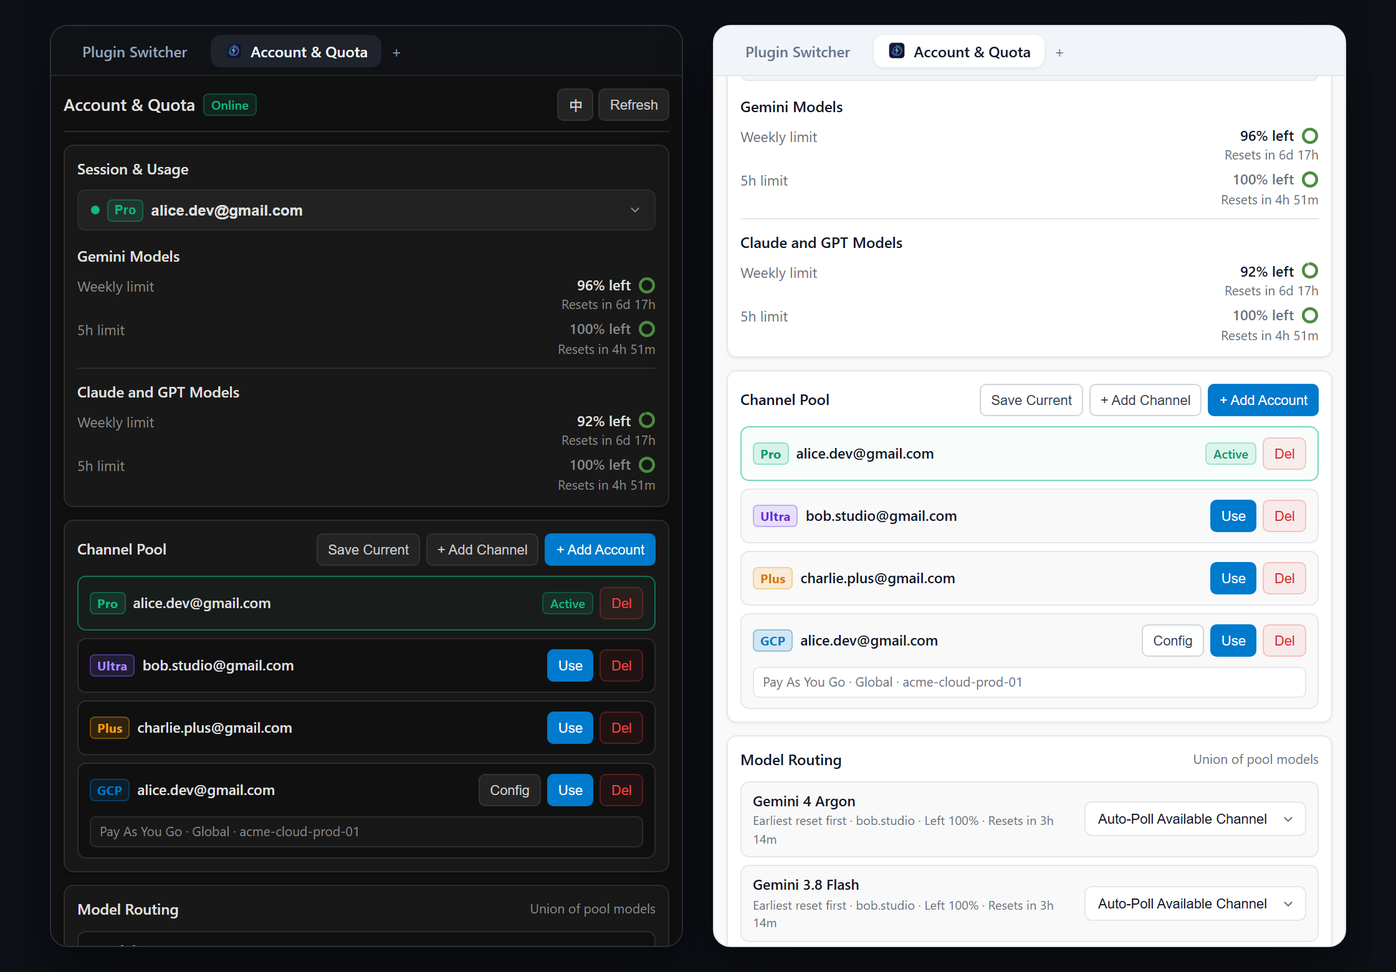
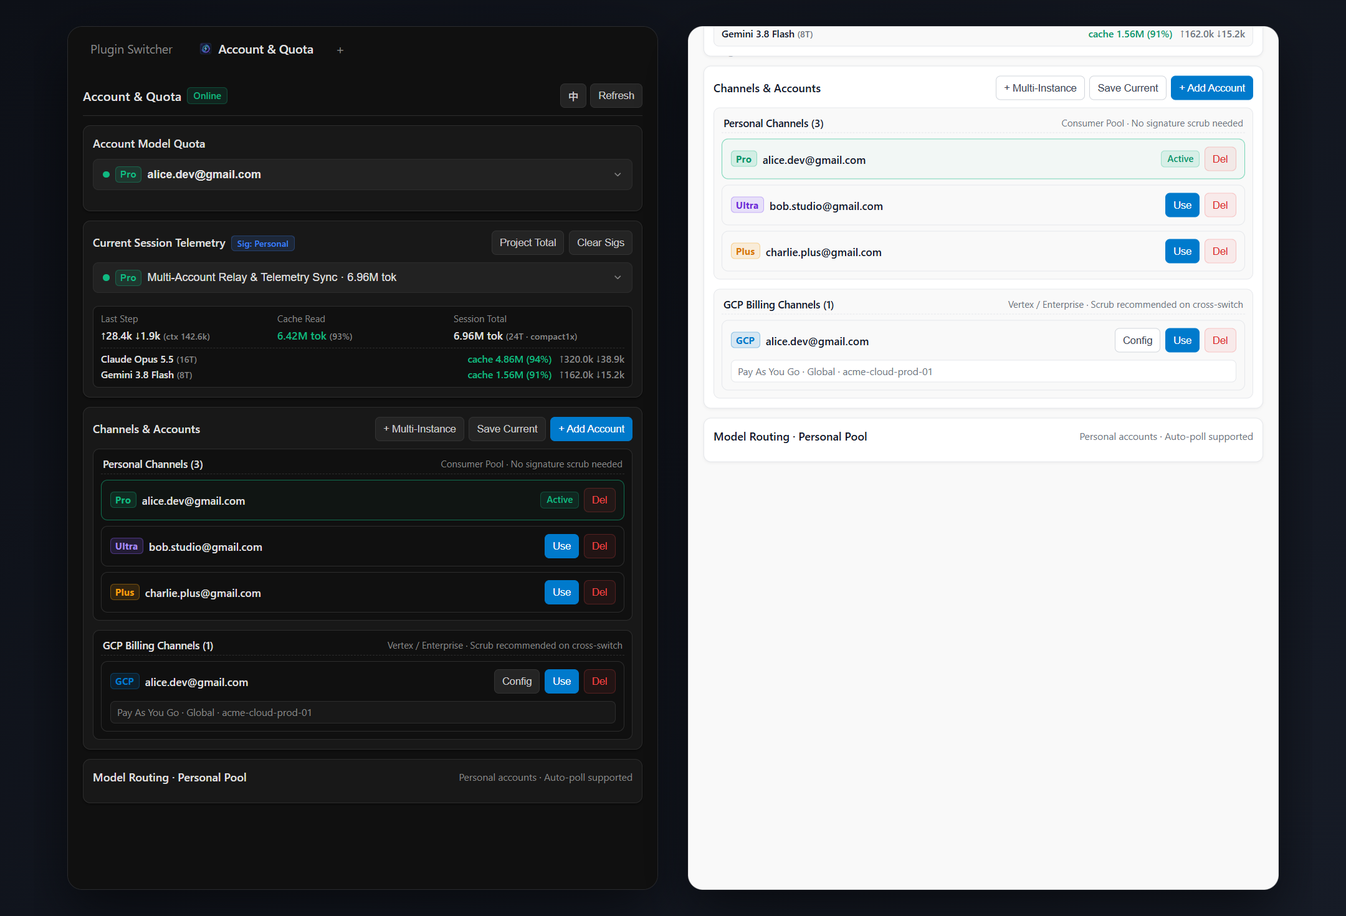
feat(relay): 同步账号配额与算力路由核心逻辑 / Sync account quota and model routing core logic

diff --git a/README.en.md b/README.en.md
@@ -29,10 +29,10 @@
 - <b>Full-Tier Detection & Quota Telemetry</b>: Powered by native Language Server and CloudCode probes to accurately classify <code>Free</code>, <code>Plus</code> (including promotional partner plans), <code>Pro</code>, <code>Ultra</code>, and <code>GCP</code> channels, displaying <code>Gemini Models</code>, <code>Claude and GPT Models</code>, and <code>Gemini 4 Argon</code> weekly/5-hour quota rings with live reset countdowns.
 - <b>Reload-Free Personal Channel Routing</b>: Built-in local transparent reverse proxy (defaulting to port <code>8091</code> with automatic fallback across <code>8091..8095</code> and OS ephemeral ports) dynamically swaps the target personal account's <code>Bearer Token</code> per model family without reloading the UI or interrupting active chats.
 - <b>Reset-First Smart Auto-Polling</b>: Configure each model to "Follow Current Channel", pin a specific personal account, or "Auto-Poll Available Channels" (prioritizing personal channels with remaining quota that reset soonest, while automatically unlocking models in the UI when the primary account hits <code>0%</code>).
-- <b>Dual-Layer Thought Signature Scrubbing</b>: Combines offline SQLite Protobuf wire-format scrubbing with real-time proxy JSON signature stripping to permanently eliminate <code>Invalid thought signature (400)</code> errors when routing across accounts or switching between <code>GCP</code> and personal channels.
-- <b>Zero-Interruption Isolated OAuth Login</b>: Launches the official Antigravity Google OAuth 2.0 + PKCE S256 flow on an isolated local callback port without touching live session credentials on cancel or completion, and derives new <code>GCP</code> channels directly from saved account tokens without re-login.
-- <b>Non-Intrusive On-Demand GCP Discovery</b>: Clicking "Auto Scan" in the <code>GCP</code> channel drawer fetches candidate projects (auto-filling a single project or rendering a selector dropdown for multiple projects) without blindly cluttering your channel pool.
-- <b>Strict Bilingual Isolation & Standalone Window</b>: Retains standard <code>Free</code> / <code>Plus</code> / <code>Pro</code> / <code>Ultra</code> / <code>GCP</code> badges across English and Chinese views with zero mixed-language leakage, dual-hosted on the dynamic Sidecar port and fixed port <code>8089</code> with real-time SSE sync.
+- <b>Signature Badge Detection & Dual-Mode Scrubbing</b>: Detects and badges each conversation's thought signature origin (<code>GCP</code> / <code>Personal</code> / <code>No Sig</code>) in real time, providing a dual-mode "Clear Sig" menu (scrub current session only vs scan project for mismatched signatures) alongside in-flight proxy stripping to eliminate <code>Invalid thought signature (400)</code> errors.
+- <b>One-Click Session Stats & Project Summary Toggle</b>: Reads official <code>transcript.jsonl</code> token telemetry directly, allowing instant toggle button switching between "Current Session Stats" (with per-conversation selector) and "Project Summary" (aggregating total tokens, prefix cache hits, and per-model breakdown across the entire project).
+- <b>Isolated Multi-Instance, Quad-Store Auth Sync & Dual-Channel Interlock</b>: Launch isolated Personal or <code>GCP</code> instances via <code>+ Multi-Instance</code> (automatically interlocking cross-channel switches when both channels are active); channel switching performs Antigravity 2.29+ quad-store auth sync (<code>WinCred</code> + <code>state.vscdb</code> Protobuf Sentinel + <code>app_storage.json</code> + <code>auth_method</code> isolation) and per-instance auto-restart.
+- <b>Zero-Interruption OAuth Login & Non-Intrusive GCP Discovery</b>: Launches official Google OAuth 2.0 + PKCE S256 on an isolated callback port, derives <code>GCP</code> channels from saved tokens with on-demand project discovery, and dual-hosts on the dynamic Sidecar port and fixed port <code>8089</code>.
 
 ---
 
@@ -109,15 +109,15 @@ antigravity-relay/
 
 ## 📖 Usage Guide
 
-### 1. Real-Time Quota Monitoring & Full-Tier Detection
+### 1. Real-Time Quota Monitoring, Session/Project Toggle & Dual-Mode Signature Scrub
 Open the "Account & Quota" tab in the right Auxiliary Pane:
-- The top "Session & Usage" selector tracks the active primary channel by default (marked with a green dot) and lets you inspect any saved channel's live quota rings and reset countdowns.
-- Each channel is automatically badged as <code>Free</code>, <code>Plus</code>, <code>Pro</code>, <code>Ultra</code>, or <code>GCP</code> based on its true available model matrix, filtering out unavailable or deprecated models.
+- The top "Session & Usage" selector tracks the current instance's active channel by default (marked with a green dot) and lets you inspect any saved channel's live quota rings and reset countdowns with <code>Free</code>, <code>Plus</code>, <code>Pro</code>, <code>Ultra</code>, and <code>GCP</code> badges.
+- Click the toggle button inside the telemetry card to switch between "Session Stats" (with per-conversation selector and live <code>Sig: GCP</code> / <code>Sig: Personal</code> / <code>Sig: None</code> badge) and "Project Summary", or click "Clear Sig" to scrub either the current conversation or all mismatched project signatures.
 
-### 2. Independent Channel Pool & Zero-Interruption OAuth
-- <b>Save Current</b>: Captures the currently logged-in host credential and creates the corresponding personal or <code>GCP</code> channel card.
-- <b>+ Add Account</b>: Opens the official Google OAuth login page in your browser on an isolated callback port without interrupting running conversations.
-- <b>+ Add Channel</b>: Derives a personal channel or <code>GCP</code> cloud project channel directly from any saved account; clicking "Auto Scan" in <code>GCP</code> mode populates candidate project IDs for selection, and clicking "Enable" on any card reloads the primary host session into that channel.
+### 2. Independent Channel Pool, Quad-Store Auth Sync & Isolated Multi-Instance
+- <b>Save Current / + Add Account</b>: Capture the currently logged-in credential with one click, or launch the isolated Google OAuth flow in your browser without interrupting active chats.
+- <b>+ Add Channel & Quad-Store Switch</b>: Derive personal or <code>GCP</code> channels from saved accounts (with "Auto Scan" project ID discovery); clicking "Enable" performs quad-store auth sync and automatically restarts the target instance on cross-channel switches.
+- <b>+ Multi-Instance & Dual-Channel Interlock</b>: Click <code>+ Multi-Instance</code> to launch a second isolated instance (when Personal and <code>GCP</code> instances run simultaneously, cross-channel switches are automatically interlocked and unavailable action buttons are hidden).
 
 ### 3. Reload-Free Personal Model Routing & Auto-Polling
 - The bottom "Model Compute Routing" section aggregates all available models across your personal channels (<code>Free</code> / <code>Plus</code> / <code>Pro</code> / <code>Ultra</code>), keeping <code>GCP</code> channels completely independent.

diff --git a/README.md b/README.md
@@ -29,10 +29,10 @@
 - <b>全等级精准识别与配额透视</b>：基于底层 Language Server 与 CloudCode 原生探针，精准区分 <code>Free</code>（无会员）、<code>Plus</code>（含渠道赠送版）、<code>Pro</code>、<code>Ultra</code> 与 <code>GCP</code> 五大通道等级，1:1 还原 <code>Gemini 模型</code>、<code>Claude 和 GPT 模型</code> 及 <code>Gemini 4 Argon</code> 独立周限额三大配额池与重置倒计时。
 - <b>个人通道免重载无感路由</b>：内置本地透明反向代理（默认 <code>8091</code> 端口，支持 <code>8091..8095</code> 及随机端口自动递增防冲突回退），按模型家族实时替换目标个人账号 <code>Bearer Token</code>，对话全程 0 界面重载、0 中断。
 - <b>按重置时间智能自动轮询</b>：每个模型支持设置「跟随当前通道」、「指定个人账号通道」或「自动轮询有余额通道」（优先消耗最早重置且有剩余额度的个人账号，并在主账号 <code>0%</code> 时自动解除前端模型灰显锁死）。
-- <b>双层思维签名无损剥离</b>：独创 SQLite 离线 Protobuf 签名剥离 + 透明代理 JSON 流式签名剥离双引擎，彻底根除跨账号路由或 <code>GCP</code> 与个人通道相互切换后继续旧对话触发的 <code>Invalid thought signature (400)</code> 崩溃。
-- <b>旁路零打断官方 OAuth 登录</b>：通过独立本地随机端口拉起 Antigravity 官方 Google OAuth 2.0 + PKCE S256 授权流程，无论授权成功或中途取消均不触碰当前在线会话凭据，支持免重登直接复用已有账号凭据派生 <code>GCP</code> 通道。
-- <b>非侵入式 GCP 项目按需扫描</b>：添加 <code>GCP</code> 通道时点击「自动扫描」仅拉取可用云项目候选列表（单项目直接填入、多项目提供下拉框点选填入），绝不擅自批量建卡污染通道池。
-- <b>双语纯净隔离与独立小窗托管</b>：中英文界面保留 <code>Free</code> / <code>Plus</code> / <code>Pro</code> / <code>Ultra</code> / <code>GCP</code> 标准徽章且零语种混杂，同时监听宿主动态端口与固定 <code>8089</code> 端口，支持 SSE 零延迟同步与独立小窗操控。
+- <b>双层思维签名识别与双模式无损剥离</b>：实时识别并展示当前会话及历史会话的签名归属徽章（<code>GCP</code> / <code>个人</code> / <code>无签名</code>），卡片右上角提供「仅清除当前会话签名」与「全项目扫描清除跨通道不匹配签名」双模式一键清理，结合透明代理流式剥离彻底根除 <code>Invalid thought signature (400)</code> 报错。
+- <b>会话统计与项目汇总一键切换</b>：直读官方 <code>transcript.jsonl</code> 原生 Token 账单，支持在卡片内一键按钮切换「当前会话统计」（支持下拉切换项目内任意历史会话）与「项目汇总」（统计当前项目全部会话累计用词、缓存命中率与按模型细分用量）。
+- <b>独立多开实例、四重登录态同步与双通道互锁</b>：支持 <code>+ 多开实例</code> 一键拉起独立用户目录的个人或 <code>GCP</code> 实例（当个人与 <code>GCP</code> 双通道实例同时在场时自动互锁防串扰）；跨通道切换内置 Antigravity 2.29+ 四重登录态同步（<code>WinCred</code> + <code>state.vscdb</code> Protobuf Sentinel + <code>app_storage.json</code> + <code>auth_method</code> 隔离）与单实例无感自重启。
+- <b>旁路零打断官方 OAuth 登录与非侵入式 GCP 扫描</b>：通过独立本地随机端口拉起官方 Google OAuth 2.0 + PKCE S256 授权流程，支持免重登直接派生 <code>GCP</code> 通道并按需扫描点选云项目编号，同时监听宿主动态端口与固定 <code>8089</code> 端口。
 
 ---
 
@@ -109,15 +109,15 @@ antigravity-relay/
 
 ## 📖 使用方法指南
 
-### 1. 实时配额监控与全等级识别
+### 1. 实时配额监控、会话/项目统计切换与双模式清签名
 在 Antigravity 右侧辅助栏打开「账号与配额管理」面板：
-- 顶部「会话与使用量」下拉框默认跟随当前主界面激活通道（带绿色圆点标记），也可随时点选任意已收录通道预览其最新配额与重置倒计时。
-- 系统自动按各账号真实可用模型矩阵标定 <code>Free</code>、<code>Plus</code>、<code>Pro</code>、<code>Ultra</code> 与 <code>GCP</code> 方形彩色徽章，自动剔除不可用或即将下线的模型。
+- 顶部「会话与使用量」下拉框默认跟随当前实例激活通道（带绿色圆点标记），也可随时点选任意已收录通道预览其最新配额与重置倒计时；系统自动标定 <code>Free</code>、<code>Plus</code>、<code>Pro</code>、<code>Ultra</code> 与 <code>GCP</code> 方形彩色徽章。
+- 「当前会话统计 / 项目汇总」卡片支持点击标题旁按钮一键切换「会话统计」（可下拉查看项目内任意会话并显示 <code>签名: GCP</code> / <code>签名: 个人</code> / <code>签名: 无签名</code> 徽章）与「项目汇总」，右上角「清除签名」按钮提供「仅清除当前会话签名」与「全项目扫描清除不匹配签名」双模式菜单。
 
-### 2. 独立通道池与旁路零打断登录
-- <b>收录当前</b>：一键读取当前客户端已登录凭据并建立对应个人通道或 <code>GCP</code> 通道卡片。
-- <b>+ 添加账号</b>：在浏览器拉起官方登录页添加新 Google 账号，授权全程零打断当前正在进行的 AI 对话。
-- <b>+ 添加通道</b>：直接复用池内已有 Google 账号凭据派生个人通道或 <code>GCP</code> 云项目通道；<code>GCP</code> 模式下点击「自动扫描」可点选填入目标项目编号，点击通道卡片上的「启用」即可重载切换主界面账号。
+### 2. 独立通道池、四重登录态同步与独立多开实例
+- <b>收录当前 / + 添加账号</b>：一键收录当前已登录凭据，或在浏览器拉起官方旁路 OAuth 登录添加新 Google 账号（授权全程零打断当前对话）。
+- <b>+ 添加通道与四重同步切换</b>：直接复用池内已有账号凭据派生个人或 <code>GCP</code> 通道（支持「自动扫描」点选云项目编号）；点击通道卡片「启用」时自动执行四重登录态同步并在跨通道切换时自动重启当前实例。
+- <b>+ 多开实例与双通道互锁</b>：点击 <code>+ 多开实例</code> 可在独立用户目录下拉起第二个实例（个人实例与 <code>GCP</code> 实例双开并存时自动锁定跨通道切换并隐藏不可切换项按钮，防止同通道配置冲突）。
 
 ### 3. 个人通道免重载算力路由与自动轮询
 - 底部「模型算力路由」自动汇总池内所有个人通道（<code>Free</code> / <code>Plus</code> / <code>Pro</code> / <code>Ultra</code>）支持的可用模型合集（<code>GCP</code> 通道完全独立不参与底部路由）。

diff --git a/docs/ARCHITECTURE.en.md b/docs/ARCHITECTURE.en.md
@@ -89,13 +89,15 @@ When `ls-bridge.mjs` requests `/v1internal:fetchAvailableModels` and `/v1interna
 
 ## 3. Dual-Layer Channel Architecture: Primary Reload Switch vs Reload-Free Personal Routing
 
-### 3.1 Layer 1: Primary Channel "Enable" Switch and Offline SQLite Signature Scrubbing
-When a user clicks "Enable" on any channel card in the Independent Channel Pool (switching across personal accounts or between `GCP` and personal channels):
-1. <b>System Credential Update</b>: Overwrites `StoredToken` and `project_id` inside Windows Credential Manager (`gemini:antigravity`) via Win32 `Advapi32.dll` `CredWriteW`.
-2. <b>Lossless Offline Protobuf Signature Scrubbing (`scrubRecentConversationsSignatures`)</b>:
-   - Gemini `thought_signature` bytes are cryptographically tied to the originating channel/account; reusing them across channels triggers `INVALID_ARGUMENT (400): Invalid thought signature`.
-   - Before restarting the language server, the engine scans the `steps` and `gen_metadata` tables in `~/.gemini/antigravity/conversations/<cascade_id>.db` and recursively strips Protobuf wire fields matching the signature magic prefix (`0x01 0x69 0x14 0x7d 0x13` or Base64 `AWkUfR` / `FpFH0T`), preserving 100% of message text and tool calls.
-   - <b>Strict Ban on Pre-Exit `LoadTrajectory`</b>: Never calls `LoadTrajectory` on the outgoing `language_server.exe` process (which would flush stale in-memory signatures back to disk on exit), immediately respawning `language_server.exe` for a clean UI reload.
+### 3.1 Layer 1: Primary Channel "Enable" Switch, Antigravity 2.29+ Quad-Store Auth Sync & Dual-Mode Signature Scrubbing
+When a user clicks "Enable" on any channel card in Channel & Account Management (switching across personal accounts or between `GCP` and personal channels):
+1. <b>Antigravity 2.29+ Quad-Store Auth Sync and Per-Instance Auto-Restart (`switchActiveAccount` + `restartTargetAntigravityInstance`)</b>:
+   - Explicitly stamps `auth_method: "consumer"` (personal channel, omitting `project_id`) or `auth_method: "gcp"` (GCP channel, carrying bound `project_id`);
+   - Atomically updates all four state stores for the target instance: ① Windows Credential Manager (`gemini:antigravity` via `Advapi32.dll` `CredWriteW`) for the main instance or the isolated token file for a multi-instance; ② `antigravityUnifiedStateSync.oauthToken` (Protobuf Base64 Sentinel `oauthTokenInfoSentinelKey`) and `google.geminicodeassist` inside the target instance's `User/globalStorage/state.vscdb` (preventing the Electron renderer from flushing stale auth state back to `language_server`); ③ `auth-session` inside the target instance's `app_storage.json`;
+   - On cross-channel transitions (Personal $\leftrightarrow$ `GCP`), spawns a detached WMI restarter that restarts only the target instance (leaving other running instances untouched) and re-applies all four stores after the old process exits and before the new process launches.
+2. <b>Session Signature Origin Detection and Dual-Mode Offline Protobuf Scrubbing (`detectConversationSignatureChannel` + `scrubConversationsByScope`)</b>:
+   - Gemini `thought_signature` bytes are cryptographically tied to the originating channel type (`personal` vs `gcp`); while reading official `transcript.jsonl` telemetry for the "Session Stats / Project Summary" toggle view, the engine inspects each conversation `.db` and cross-references `signatureChannelMap` to render live `GCP` / `Personal` / `No Sig` badges;
+   - The "Session Stats / Project Summary" card provides a dual-mode "Clear Sig" dropdown menu: users can either scrub only the active conversation (`scope: "conversation"`) or scan the entire project to scrub legacy signatures mismatched with the active channel (`scope: "project_mismatch"`), recursively stripping signature wire fields (`0x01 0x69 0x14 0x7d 0x13` or Base64 `AWkUfR` / `FpFH0T`) from `~/.gemini/antigravity/conversations/<cascade_id>.db` while preserving 100% of message text and tool calls.
 
 ### 3.2 Layer 2: Local Transparent Reverse Proxy for Reload-Free Personal Routing
 When the primary session is on any personal channel (`Free` / `Plus` / `Pro` / `Ultra`), the bottom "Model Compute Routing" panel enables zero-reload cross-account routing (`GCP` channels remain completely isolated from bottom routing):
@@ -133,7 +135,9 @@ All endpoints are served identically from both the host-assigned internal Sideca
 - <b>Cancel Pending OAuth Login</b>: `POST /api/cancel-oauth`
 - <b>Discover Accessible GCP Projects</b>: `POST /api/discover-gcp-projects` (Payload: `{ "email": "user@gmail.com" }`)
 - <b>Add Independent Channel (Personal or GCP)</b>: `POST /api/add-gcp-channel` (Payload includes `email`, `channelType`, `gcpProjectId`, `gcpBillingMode`, `gcpLocation`)
-- <b>Enable Target Channel (Reloads Primary Session)</b>: `POST /api/switch-account` (Payload: `{ "channelId": "user@gmail.com#personal" }`)
+- <b>Enable Target Channel (Quad-Store Sync + Cross-Channel Instance Auto-Restart)</b>: `POST /api/switch-account` (Payload: `{ "channelId": "user@gmail.com#personal" }`)
+- <b>Launch Isolated Multi-Instance</b>: `POST /api/launch-instance` (Payload: `{ "channelId": "user@gmail.com#gcp:my-proj" }`)
+- <b>Dual-Mode Thought Signature Scrub</b>: `POST /api/scrub-signatures` (Payload: `{ "scope": "conversation" | "project_mismatch", "conversationId": "<uuid>" }`)
 - <b>Remove Target Channel</b>: `POST /api/remove-account` (Payload: `{ "channelId": "user@gmail.com#personal" }`)
 - <b>Probe Non-Active Channel Quota</b>: `POST /api/probe-channel-quota` (Payload: `{ "channelId": "user@gmail.com#personal", "force": false }`)
 

diff --git a/docs/ARCHITECTURE.md b/docs/ARCHITECTURE.md
@@ -89,13 +89,15 @@ antigravity-relay/
 
 ## 3. 双层通道架构：主通道重载切换 vs 个人通道免重载路由
 
-### 3.1 第一层：独立通道池「启用」切换与 SQLite 离线签名剥离
-当用户在「独立通道池」点击某张卡片（无论是跨个人账号，还是在 `GCP` 与个人通道之间切换）的「启用」按钮时：
-1. <b>系统凭据覆写</b>：通过 Win32 `Advapi32.dll` `CredWriteW` 更新 `gemini:antigravity` 系统凭据中的 `StoredToken` 与 `project_id`。
-2. <b>离线 Protobuf 思维签名无损剥离（`scrubRecentConversationsSignatures`）</b>：
-   - Google Gemini 模型的思考签名（`thought_signature`）与生成该签名的通道密钥强绑定，跨通道继续同一会话会触发 `INVALID_ARGUMENT (400): Invalid thought signature`。
-   - 切换进程前，系统直接扫描 `~/.gemini/antigravity/conversations/<cascade_id>.db` 的 `steps` 与 `gen_metadata` 表，递归移除包含签名魔数头（`0x01 0x69 0x14 0x7d 0x13` 或 Base64 `AWkUfR` / `FpFH0T`）的 Protobuf Wire 字段，100% 保留聊天正文与工具调用记录。
-   - <b>严禁向旧进程发送 `LoadTrajectory`</b>：避免旧 `language_server.exe` 退出时把内存中的带签名旧轨迹回写覆盖 `.db`，随后直接重启 `language_server.exe` 触发主界面干净重载。
+### 3.1 第一层：独立通道池「启用」切换、Antigravity 2.29+ 四重登录态同步与双模式签名剥离
+当用户在「通道与账号管理」点击某张卡片（无论是跨个人账号，还是在 `GCP` 与个人通道之间切换）的「启用」按钮时：
+1. <b>Antigravity 2.29+ 四重登录态同步与单实例无感自重启（`switchActiveAccount` + `restartTargetAntigravityInstance`）</b>：
+   - 显式设置凭据 `auth_method: "consumer"`（个人通道，彻底剔除 `project_id`）或 `auth_method: "gcp"`（GCP 通道，携带绑定 `project_id`）；
+   - 同步写入目标实例四处核心状态源：① 主实例 Win32 `Advapi32.dll` `CredWriteW`（`gemini:antigravity`）或多开实例专属令牌文件；② 目标实例 `User/globalStorage/state.vscdb` 中的 `antigravityUnifiedStateSync.oauthToken`（Protobuf Base64 Sentinel `oauthTokenInfoSentinelKey`）与 `google.geminicodeassist`（防止 Electron 渲染层把旧账号状态刷回 `language_server`）；③ 目标实例 `app_storage.json` 的 `auth-session`；
+   - 当跨通道切换（个人 $\leftrightarrow$ `GCP`）时，通过 WMI 拉起脱离进程树的重启器仅重启当前目标实例（绝不影响另一多开实例），并在旧进程退出后、新进程拉起前二次覆写上述四处存储以防退出回写覆盖。
+2. <b>会话级签名归属检测与双模式离线 Protobuf 签名无损剥离（`detectConversationSignatureChannel` + `scrubConversationsByScope`）</b>：
+   - Google Gemini 模型的思考签名（`thought_signature`）与生成该签名的通道类型（`personal` vs `gcp`）强绑定；系统在读取官方 `transcript.jsonl` 实时计算「会话统计 / 项目汇总」Token 账单时，同步检测各会话 `.db` 是否包含思考签名并结合 `signatureChannelMap` 标记 `GCP` / `个人` / `无签名` 徽章；
+   - 面板「当前会话统计 / 项目汇总」卡片内置双模式「清除签名」下拉菜单：支持「仅清除当前会话签名」（`scope: "conversation"`）或「全项目扫描，清除与当前通道不匹配的遗留签名」（`scope: "project_mismatch"`），递归剥离 `~/.gemini/antigravity/conversations/<cascade_id>.db` 中的签名魔数头（`0x01 0x69 0x14 0x7d 0x13` 或 Base64 `AWkUfR` / `FpFH0T`），100% 保留聊天正文与工具调用记录。
 
 ### 3.2 第二层：个人通道本地透明反向代理与免重载算力接力
 当主界面处于任意个人通道（`Free` / `Plus` / `Pro` / `Ultra`）时，底部「模型算力路由」在不重载界面的前提下实现跨个人账号算力接力（`GCP` 通道完全独立，不参与底部路由）：
@@ -133,7 +135,9 @@ antigravity-relay/
 - <b>取消进行中的 OAuth 登录</b>：`POST /api/cancel-oauth`
 - <b>扫描账号可用 GCP 项目列表</b>：`POST /api/discover-gcp-projects`（请求体：`{ "email": "user@gmail.com" }`）
 - <b>添加独立通道（个人或 GCP）</b>：`POST /api/add-gcp-channel`（请求体包含 `email`、`channelType`、`gcpProjectId`、`gcpBillingMode`、`gcpLocation`）
-- <b>启用指定通道（重载主界面）</b>：`POST /api/switch-account`（请求体：`{ "channelId": "user@gmail.com#personal" }`）
+- <b>启用指定通道（四重同步 + 跨通道自动重启当前实例）</b>：`POST /api/switch-account`（请求体：`{ "channelId": "user@gmail.com#personal" }`）
+- <b>拉起独立多开实例</b>：`POST /api/launch-instance`（请求体：`{ "channelId": "user@gmail.com#gcp:my-proj" }`）
+- <b>双模式清除思考签名</b>：`POST /api/scrub-signatures`（请求体：`{ "scope": "conversation" | "project_mismatch", "conversationId": "<uuid>" }`）
 - <b>删除指定通道</b>：`POST /api/remove-account`（请求体：`{ "channelId": "user@gmail.com#personal" }`）
 - <b>查询非当前通道缓存配额</b>：`POST /api/probe-channel-quota`（请求体：`{ "channelId": "user@gmail.com#personal", "force": false }`）
 
